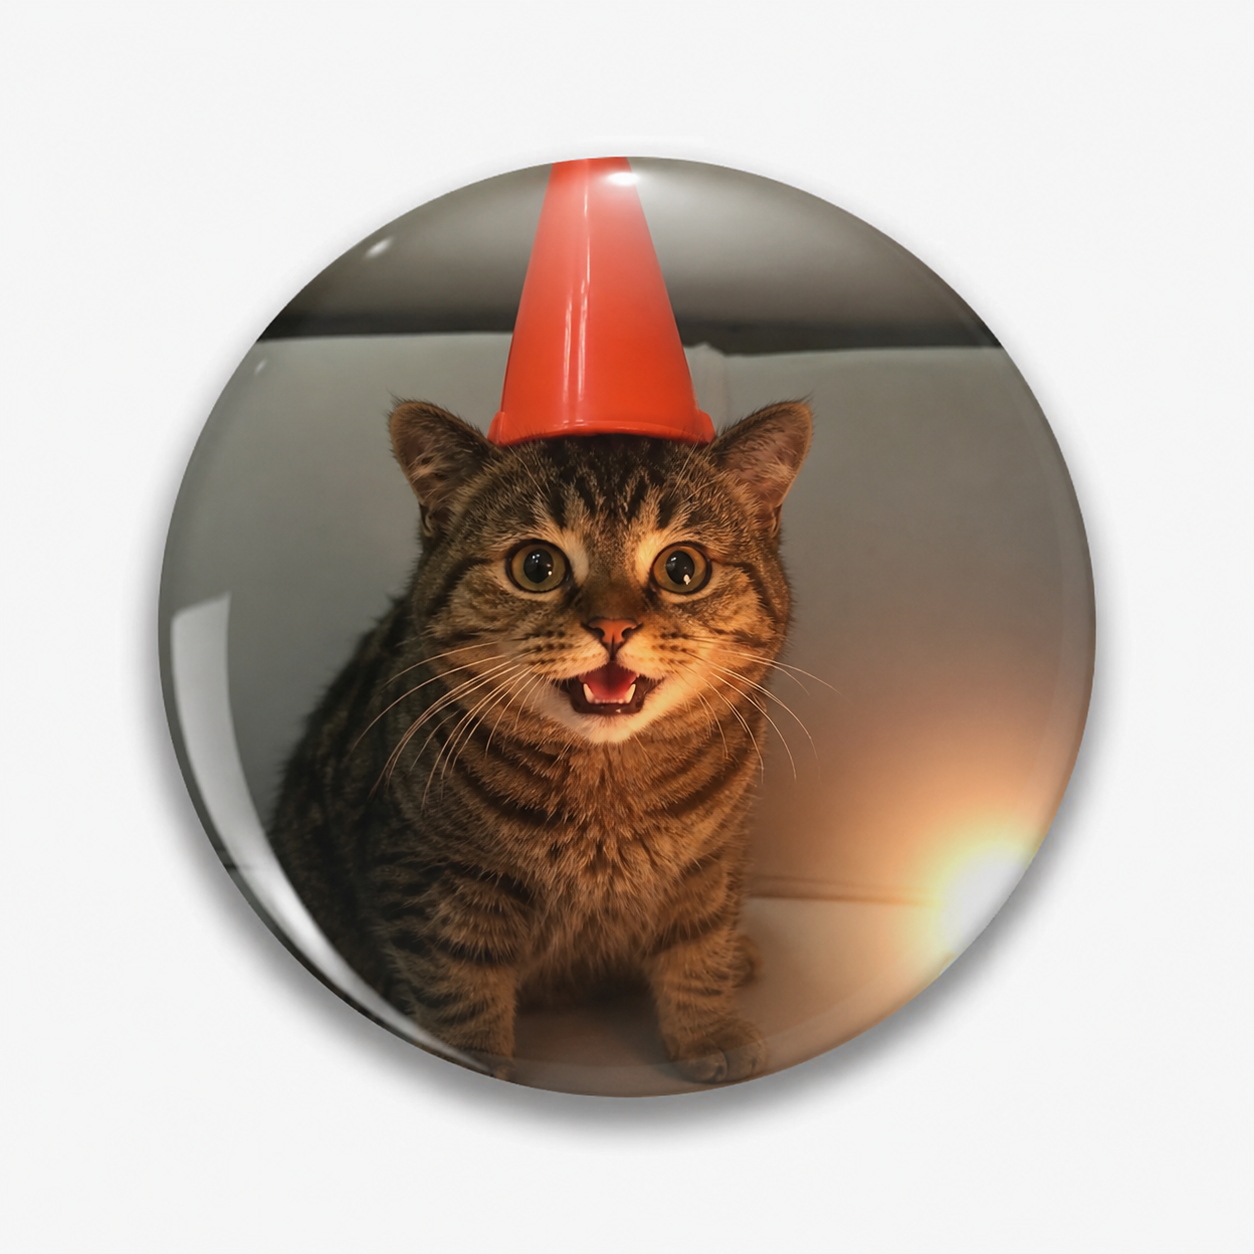
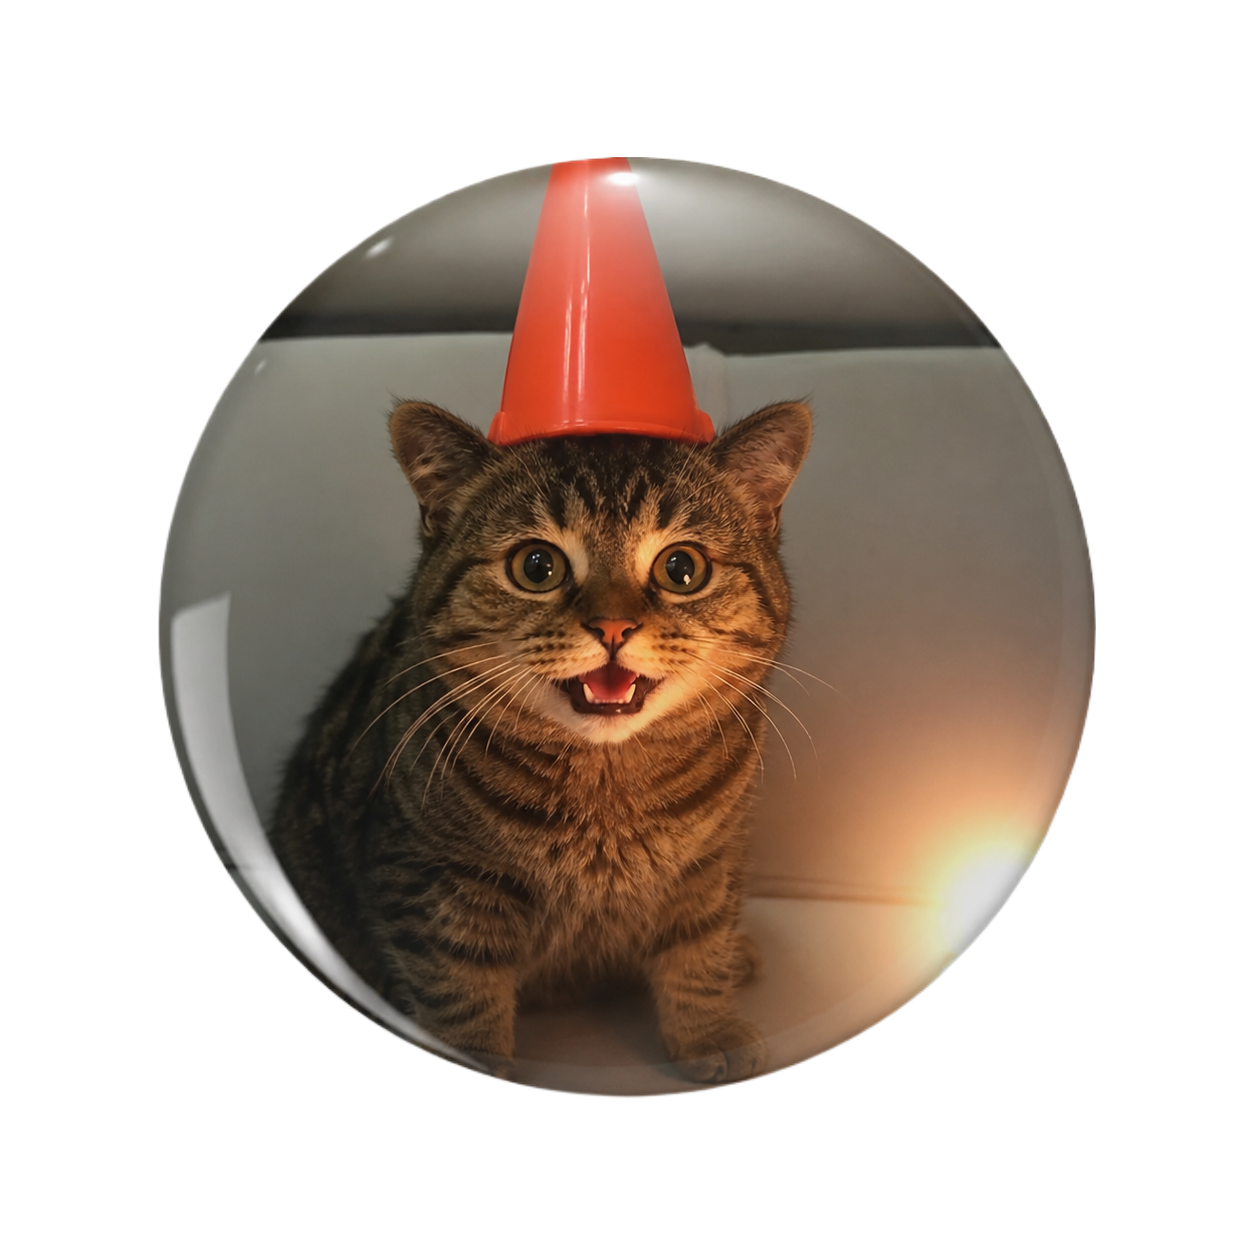
readme-päivitystä - kesken, kuvat päivitetty

diff --git a/Projekti3/styles/tyyli.css b/Projekti3/styles/tyyli.css
@@ -25,13 +25,6 @@
     z-index: -1;
 }
 
-/*body {
-    background-color: #ffe7f1 !important;
-    background-image: url("../../images/colour-sound-wave-e1452611417196.jpg") !important;
-    color: #4A4A4A !important;
-    background-size: 100% 150%;
-}*/
-
 .ekaDiv {
     display: flex !important;
     justify-content: center !important;
@@ -185,7 +178,8 @@ h3 {
 #ullatusPaikka img {
     width: 100%;
     height: auto;
-    display: block;   
+    display: block;  
+    border-radius: 45%;  /*vähän pyöreyttä kissavieraskuviin*/
 }
 
 @keyframes bounce2 {
@@ -218,7 +212,6 @@ h3 {
 #juhlaKissa {
     display: flex !important;
     justify-content: center !important;
-    background-image: "media/desktop.ini";
 }
 
 #suru {

diff --git a/Projekti3/index.html b/Projekti3/index.html
@@ -10,7 +10,7 @@
 
 <body id="index">
 
-<!-- Create a <canvas> element -->
+<!-- Luotu canvas-elementti, jotta saadaan taustan animointi toimimaan -->
 <canvas id="canvas-image-blending"></canvas>
 
 <script src="https://cdn.jsdelivr.net/npm/granim@2.0.0/dist/granim.min.js"></script>
@@ -68,7 +68,6 @@
 <div id="albumitPaikka"></div>
 
 <!-- Lisätty jQuery, bootstrap, oma js ja animejs -->
-<!--<script src="https://code.jquery.com/jquery-3.6.0.min.js"></script>-->
 <script src="https://code.jquery.com/jquery-3.7.1.js"></script>
 <script src="https://code.jquery.com/ui/1.14.2/jquery-ui.js"></script>
 <script src="https://cdn.jsdelivr.net/npm/bootstrap@5.3.3/dist/js/bootstrap.bundle.min.js"></script>

diff --git a/Projekti3/ullatus.html b/Projekti3/ullatus.html
@@ -32,7 +32,7 @@
         </div></div></nav></div>
 
     <div id="juhlaKissa"> 
-        <img id="suru" src ="media/eisaatavilla.jpg" alt="surullinen sankari">
+        <img id="suru" src ="media/eisaatavilla.png" alt="surullinen sankari">
     </div>
     <div id ="kissaNapinPaikka"> <button id="kissaNappi" class ="btn btn-success">Party button</button></div>
     <div id ="stopPainike"></div>

diff --git a/Projekti3/styles/toimintaa.js b/Projekti3/styles/toimintaa.js
@@ -133,6 +133,7 @@ const catApiKey = "live_Qq9TZXOog8U05SHE7mI2ELkWvNV4zC9D2p3DJYLqdRG7VqtsNKWQbHAo
 const ullatusPaikka = document.querySelector("#ullatusPaikka"); // määritellään paikka yllätykselle
 const kissaNappi = document.querySelector("#kissaNappi") // valikoidaan nappi
 const musiikki = new Audio("media/the_mountain-brazilian-phonk-505181.mp3"); // luodaan audio (haetaan kansiosta sound)
+musiikki.volume = 0.2; // musiikin äänenvoimakkuutta säädetty
 const tanssiTyyli = ["hyppy", "hyppy2", "hyppy3"]
 let i = 0;
 let sankariKissa = document.querySelector("#suru")

diff --git a/Projekti3/readme.md b/Projekti3/readme.md
@@ -14,7 +14,7 @@ Projektin videoesittelyn url toimitettu palautuksen kommenttikentässä.
 
 ## Oma arvio työstä ja oman osaamisen kehittymisestä
 Projektini täyttää tehtävänannon vaatimukset:  
-jQueryä on käytetty AJAXin ja DOM-skriptauksen tekemiseen.
+jQueryä on käytetty DOM-skriptauksen tekemiseen.  
 Sovelluksen ulkoasussa on käytetty UI-kirjastoa (Bootstrap, jQuery UI + kevyet granim.js & anime.js)
 Koodi on julkaistu GitHubissa ja sovellus GitHubin kautta.
 Videodemo sekä projektiraportit on laadittu.
@@ -24,6 +24,9 @@ Hyödynsin näitä oppeja lisämäällä animoinnin sekä taustakuvaan,
 että "Valitse artisti" -otsikkoon (h3).  
 Ekstrana lisäsin myös tausta-animaation pysäytyspanikkeen (käytettävyys huomioiden).  
 
+jQuery UI:ta käytin, jotta albumeita voi liikuttaa / järjestää.  
+Samaa metodia on käytetty myös ullatus.html:n juhlaKissa-kuvan kanssa.
+
 Harjoittelin ja opin myös jQueryn käyttöä, jota hyödynsin projektissa  
 lyhentääkseni koodia.  
   
@@ -31,9 +34,9 @@ Antaisin itselleni pisteitä 10/10 p.
 
 
 ## Palaute opettajalle kurssista sekä itse opetuksesta tähän saakka
-Kiitos, että annat aina tilaa kysymyksille ja keskustelulle.  
-Tämä projekti tuntui alkuun haastavalta ja aiheen parissa voisin  
-varmasti vielä jatkaa työskentelyä, jotta alkaa sujumaan sutjakkaammin.  
+Kiitos vapaudesta luovuuden suhteen! Tämä mahdollistaa erilaisten projektien testailun mielenkiinnon kohteiden mukaan,  
+ja avaa ovia oppia ylimääräistä (koska innostuminen ja uteliaisuus ohjaavat projektin kanssa eteenpäin).  
+Kannustat opiskelijoita myös tilanteissa, joissa he kokeilevat kurssin ydinrakenteen ulkopuolisia teemoja!  
 
 
 ## Sisällysluettelo:
@@ -48,12 +51,17 @@ varmasti vielä jatkaa työskentelyä, jotta alkaa sujumaan sutjakkaammin.
 
 
 ## Tietoja sovelluksesta
-Sovellus on Musiikki API, jossa voit etsiä joko alasvetovalikosta
-tai hakukentään kirjoittaen haluamaasi artistia. Sivulle tulostuu
-näkymä haetun artistin albumeista kuvan ja tekstin kera.
+Sovellus on Musiikki API, jossa voit etsiä joko alasvetovalikosta  
+tai hakukentään kirjoittaen haluamaasi artistia. Sivulle tulostuu  
+näkymä haetun artistin albumeista kuvan ja tekstin kera.  
 
-Ylläri-osiossa voit klikata nappia ja aloittaa juhlat.
-Myös tässä on hyödynnetty APIa, joskin kissa-apia.
+Voit järjestää hakemasi albumit haluamaasi järjestykseen.  
+Taustalla pyörii animoitu taustakuva, jonka voi "Pysäytä tausta"-painikkeen  
+avulla pysäyttää.  
+
+Ylläri-osiossa voit klikata nappia, joka aloittaa juhlat.  
+Myös tässä on hyödynnetty APIa, joskin kissa-apia.  
+JuhlaKissaa voi liikuttaa raahaamalla ja juhlat voi pysäyttää "Stop"-painiketta klikkaamalla.  
 
 
 ## Tunnetut virheet tai bugit
@@ -62,14 +70,14 @@ Avaimet voi piilottaa ja sen tekisin seuraavan vastaavan projektin kohdalla.
 
 ## Kuvakaappaukset
 
-**Etusivu: Valitse artisti alasvetovalikosta tai etsi hakukenttään kirjoittaen**  
-![Etusivu: Valitse artisti alasvetovalikosta tai etsi hakukenttään kirjoittaen ](images/index.jpg)  
+**Etusivu: sivulle saapuessa otsikko "Valitse artisti" on animoitu**  
+![Etusivu: sivulle saapuessa otsikko "Valitse artisti" on animoitu ](media/otsikkoAnimoitu.png)  
 
-**Valittu artisti Kiraw + albumien tiedot kuvien kanssa** 
-![Kissa API -puolen iloinen kissa ](images/albumit.jpg)  
+**Albumeita voi liikuttaa ja järjestää uudelleen** 
+![Albumeita voi liikuttaa ja järjestää uudelleen ](media/dragndrop.png)  
 
-**Kissa API -puolen iloinen kissa**  
-![Kissa API -puolen iloinen kissa ](images/ilokissa.jpg)  
+**Juhlakissaa voi liikuttaa kavereiden joukkoon**  
+![Juhlakissaa voi liikuttaa kavereiden joukkoon ](media/partywithfriends.png)  
 
 Kuvat: Taru Laine  
 